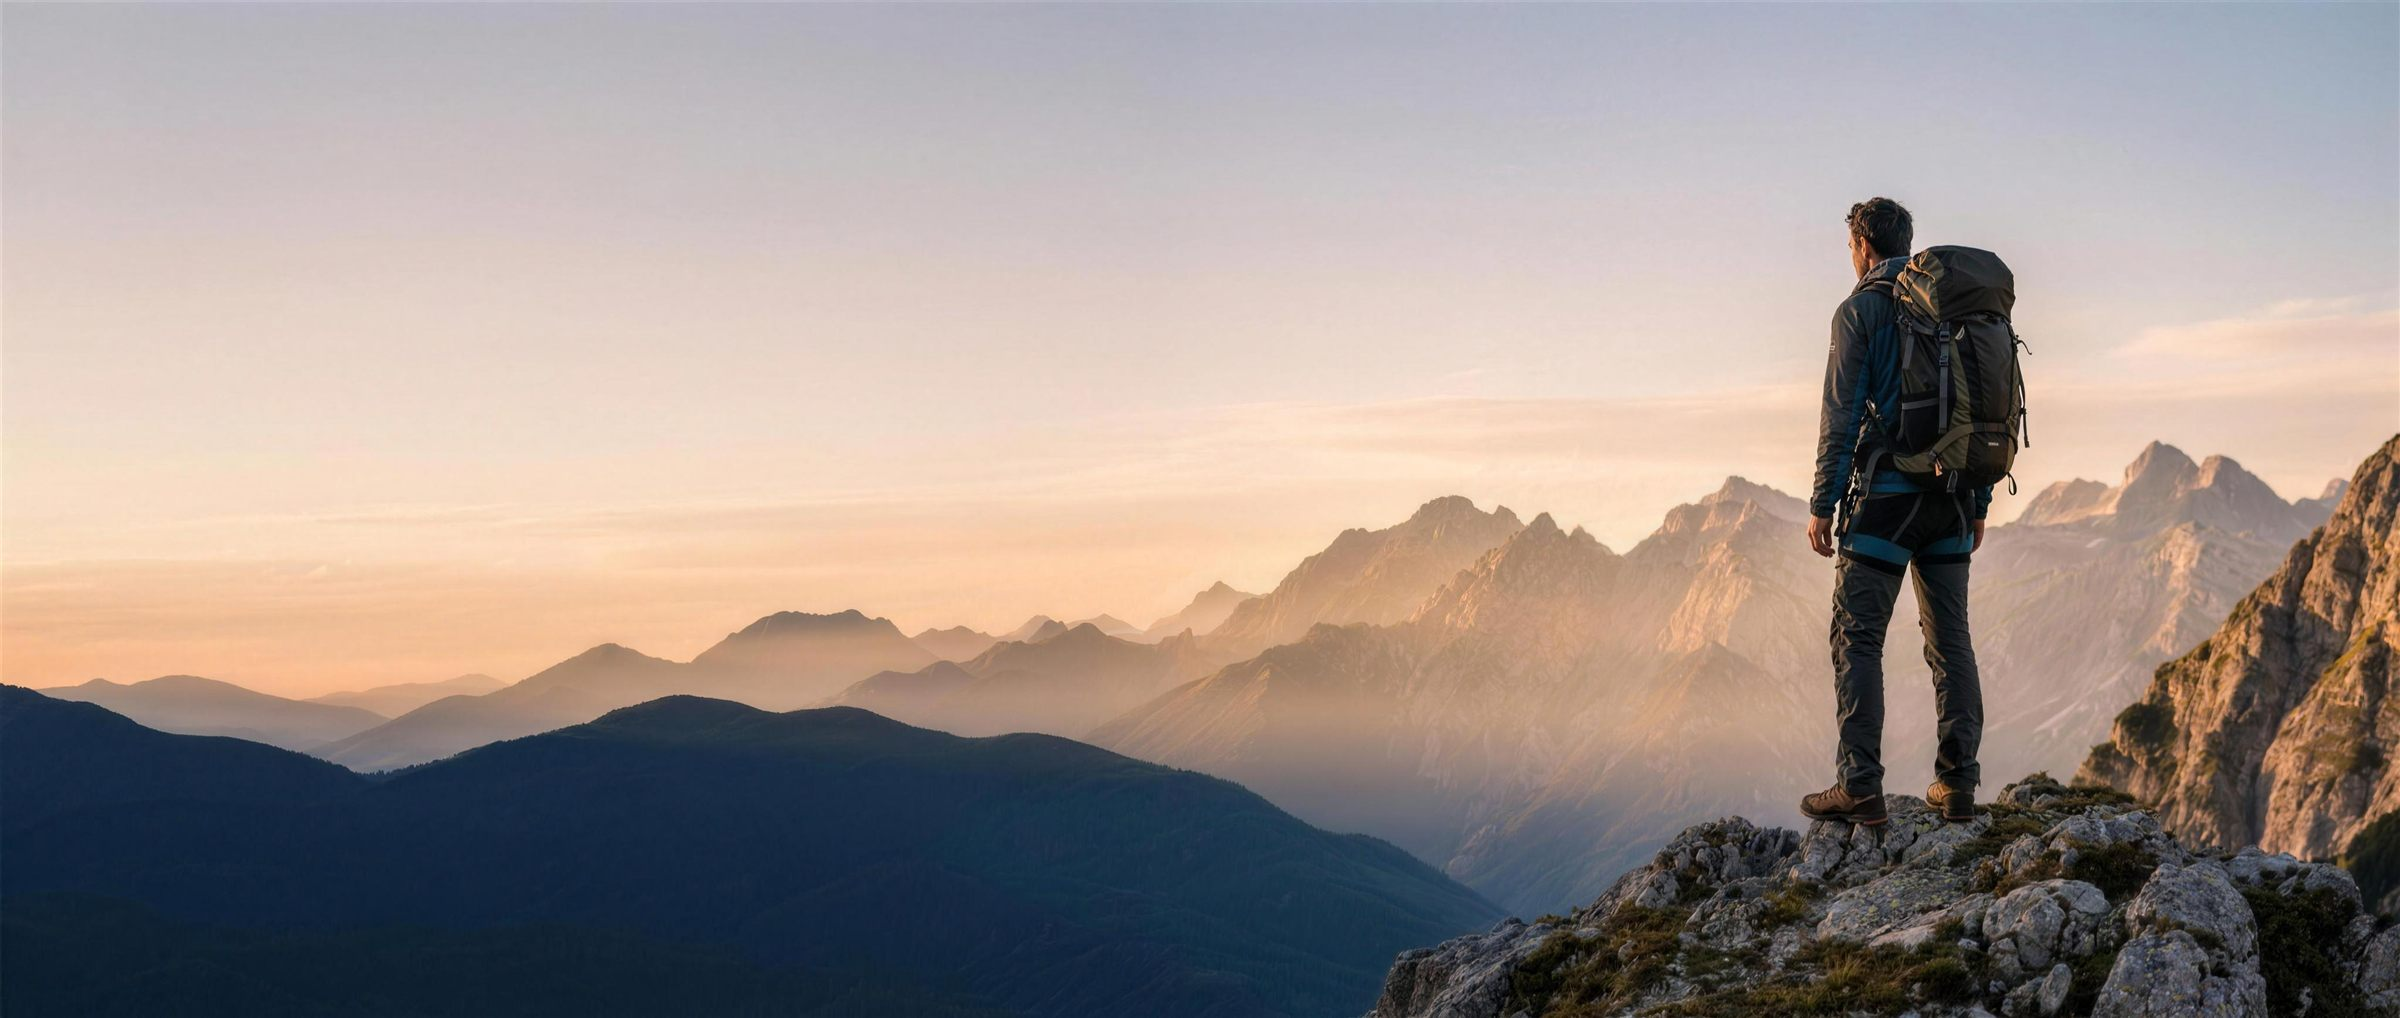
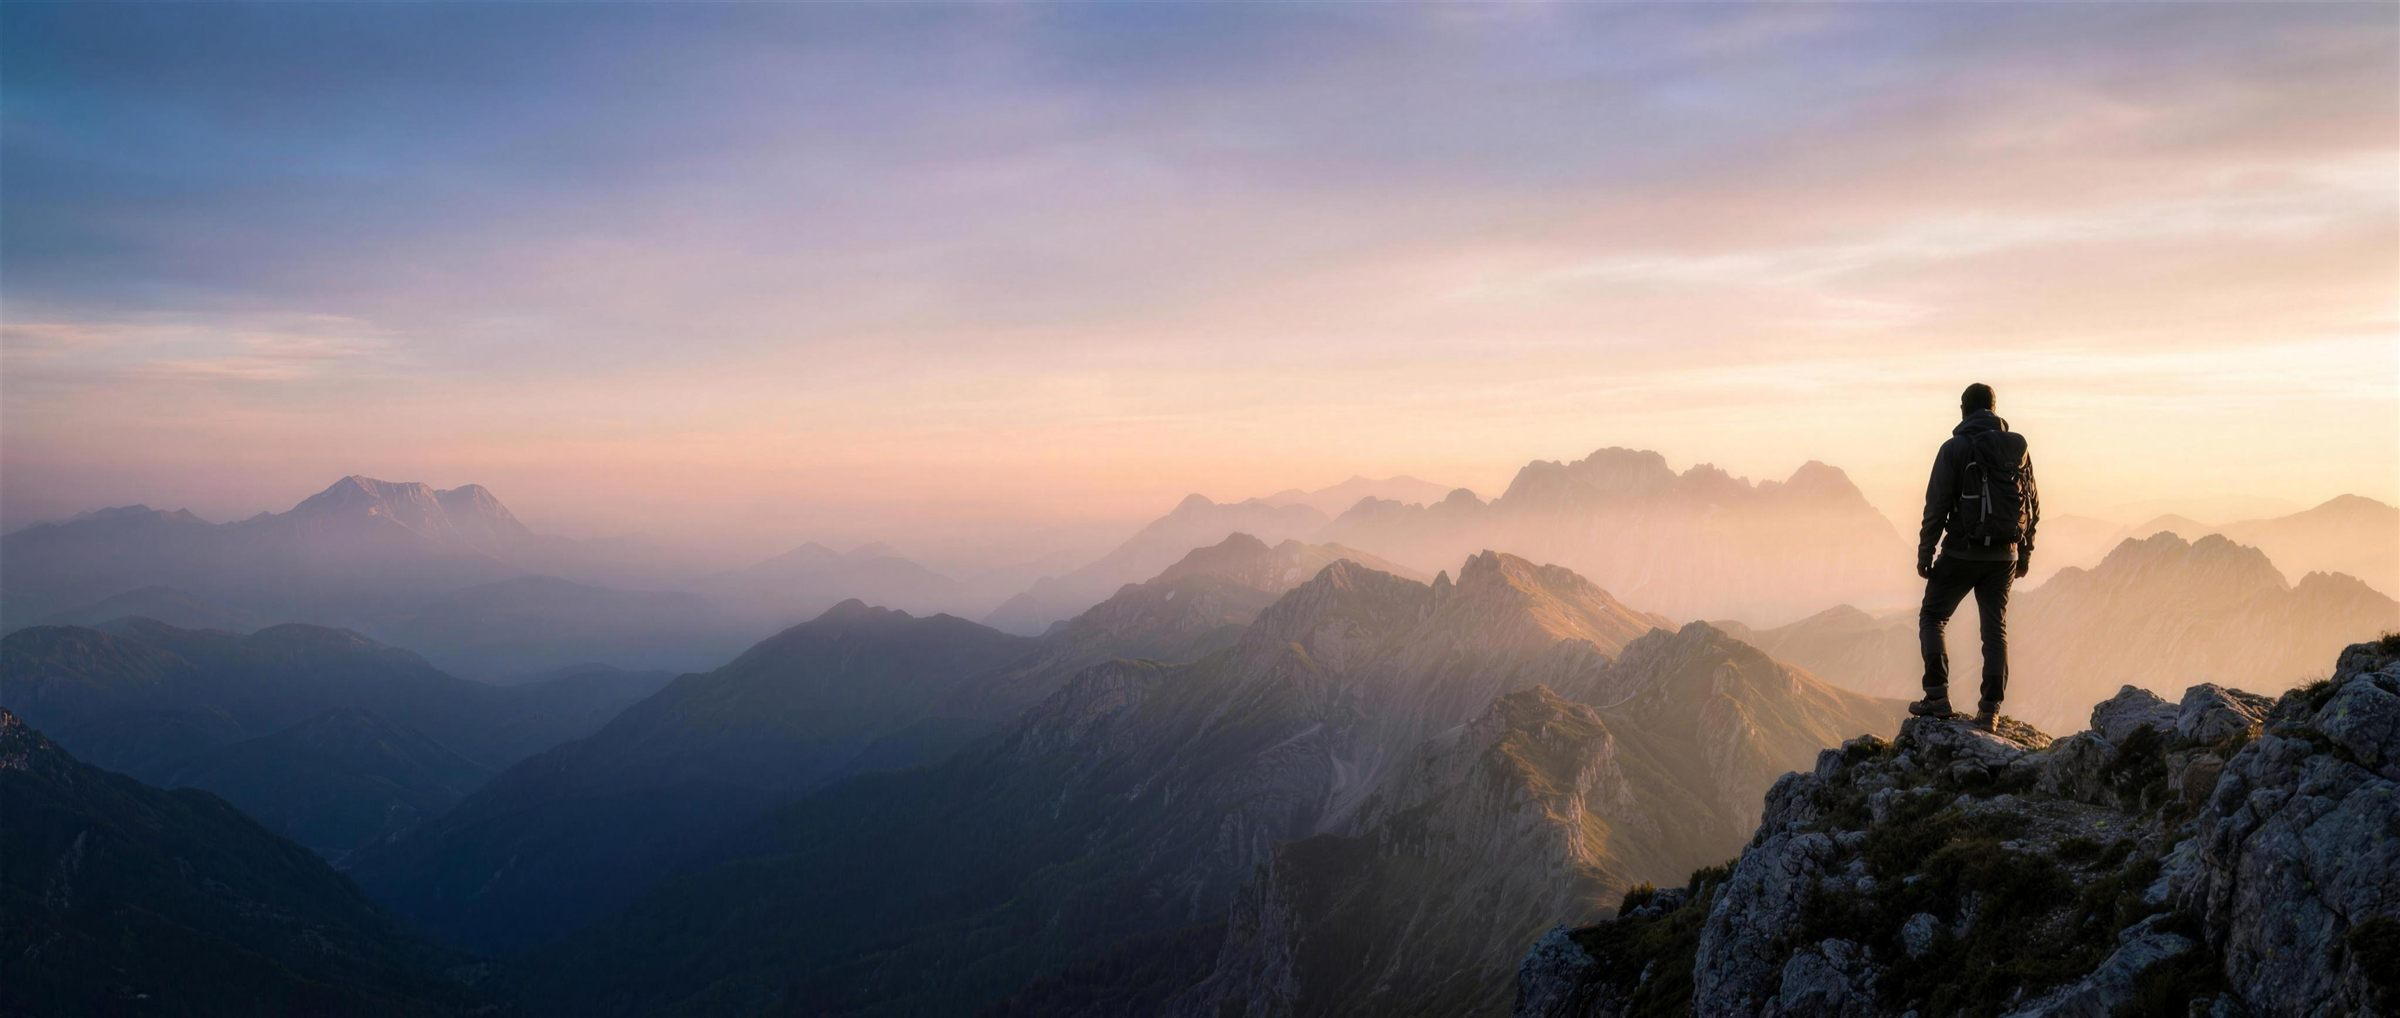
Swap homepage hero photo for a more dramatic twilight panorama

diff --git a/CONTEXT.md b/CONTEXT.md
@@ -168,3 +168,5 @@ Julia provided the full 12-section Firmitas Brand Bible (.docx files) at
 **Swapped the logo mark: `logo-monogram.svg` → `signature-f.svg`.** Julia added a new SVG to `images/` (originally named `Signature F.svg` with a space — renamed to kebab-case `signature-f.svg` to match the site's file-naming convention and avoid URL-encoding issues). It's a more stylized/script-style single-path navy monogram (`#101f32`, viewBox 815.59×1054.73 — taller/narrower than the old block-serif mark's viewBox). Replaced all 7 references: the `<link rel="icon">` favicon on all 5 pages, `partials/header.html`'s nav logo, and `partials/footer.html`'s footer logo. No CSS changes needed — `.logo-mark` sizes by `height: 38px; width: auto`, so it scales proportionally regardless of aspect ratio, and the footer's white-invert filter (`.logo-mark--light`) works the same on any solid-fill navy SVG. Old `images/logo-monogram.svg` is left in place but now unused by any page.
 
 **Added local font files so Julia can use the same fonts in Illustrator.** Julia is designing the logo in Illustrator and wanted the site fonts usable there too. First floated Adobe Fonts (would mean picking new fonts — IvyPresto Display / Proxima Nova — plus Julia creating a Web Project on fonts.adobe.com and sending back an embed code); she said that was too much setup. Since Playfair Display and Work Sans are both open-license (SIL OFL) Google Fonts, downloaded the actual variable `.ttf` files straight from Google's official `google/fonts` GitHub repo into a new `fonts/` folder: `PlayfairDisplay-Variable.ttf`, `PlayfairDisplay-Italic-Variable.ttf`, `WorkSans-Variable.ttf`, `WorkSans-Italic-Variable.ttf`. No website changes — same fonts already in use. Julia just needs to right-click each file in `fonts/` → Install; they'll then appear in Illustrator's font list, identical to the web versions. No Adobe Fonts account/subscription/approval step required.
+
+**Replaced `images/hero-mountain.jpg` again with a second panorama.** Julia shared another hiker-on-summit shot (same CloudFront/Higgsfield source, 4096×1738 PNG, ~2.7MB) — a more dramatic twilight/sunset version with richer purple-gold sky tones, pairing well with the navy/gold palette. Same pipeline as the first swap: resized via PowerShell `System.Drawing` to 2400×1018, re-encoded as JPEG quality 82 (~168KB), saved over the same filename so no HTML changes were needed.